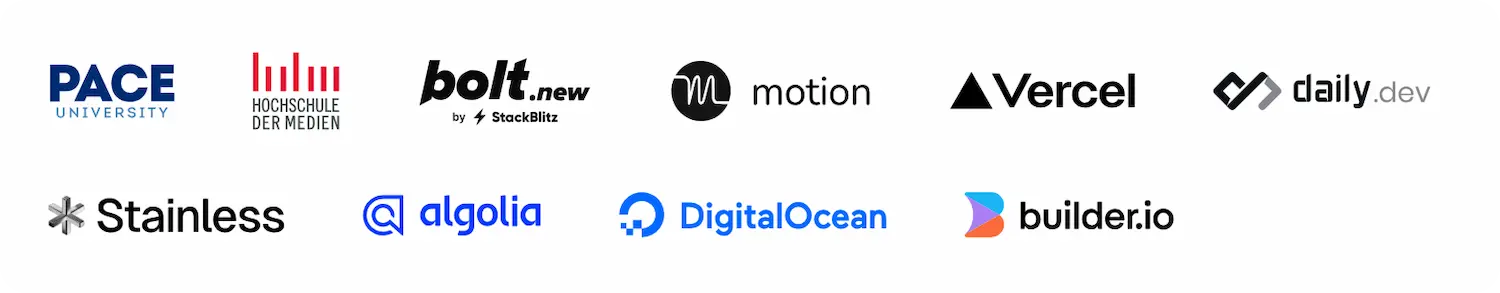
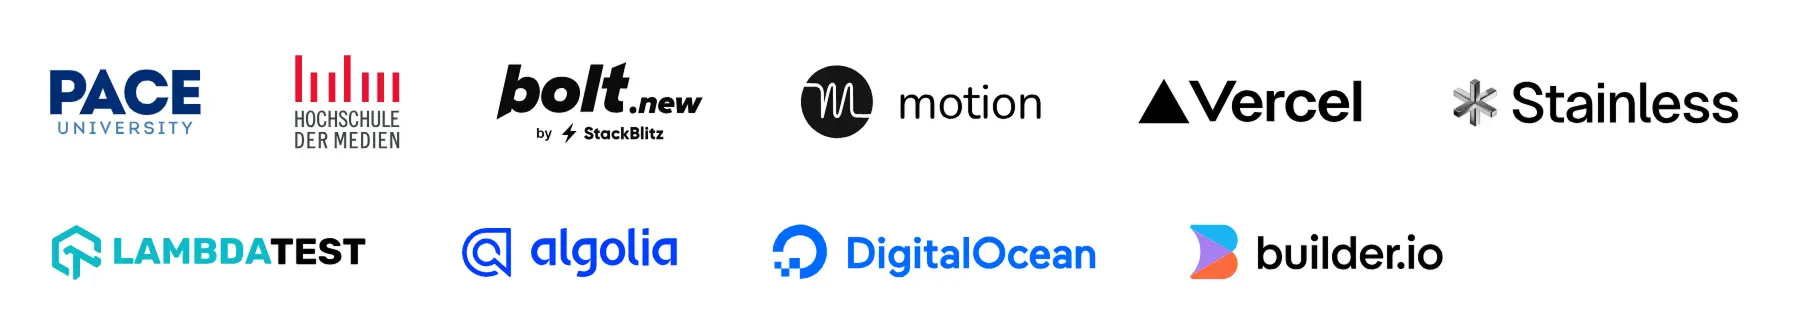
Add LambdaTest to Credits component and remove daily.dev

diff --git a/website/src/logos/LambdaTestLogo.tsx b/website/src/logos/LambdaTestLogo.tsx
@@ -1,0 +1,19 @@
+import { component$, type PropsOf } from '@qwik.dev/core';
+
+export const LambdaTestLogo = component$<PropsOf<'svg'>>((props) => (
+  <svg viewBox="0 0 196 64" role="img" aria-label="LambdaTest logo" {...props}>
+    <path
+      fill="#0ebac5"
+      fill-rule="evenodd"
+      d="M13.37 45.73V42.8a.8.8 0 0 0-.32-.63l-.09-.12-.1-.1c-.34-.19-.41-.23-.45-.24l-5.23-3V26.55l5.01-2.86.37-.21.08-.05 5.21-2.98 5.02 2.87.43.24 5.23 2.99v3.98c0 .28.15.54.4.68l2.57 1.47a.8.8 0 0 0 1.2-.69v-6.62a2 2 0 0 0-1.04-1.8l-.33-.19-6.05-3.45-.33-.19-5.96-3.4a2.1 2.1 0 0 0-2.18-.06l-.33.2-5.73 3.27-.24.13-.09.05-.32.19-5.98 3.41c-.3.15-.6.41-.8.74q-.31.5-.32 1.09V39.9a2 2 0 0 0 1.05 1.8l.32.18 6.06 3.46.33.18 1.38.87a.8.8 0 0 0 1.23-.67M29.73 34.6a.8.8 0 0 0-1.2.7v.73l-13.28-7.57-.45-.26c-.4-.23-.9-.2-1.28.06l-.35.2-1.96 1.11-.72.41-.07.04a1.17 1.17 0 0 0-.42 1.62l.45.76.46.78a1.2 1.2 0 0 0 1.64.4l.84-.48.82-.46 1.6.92v14.26a1.2 1.2 0 0 0 1.99.86l1.76-1.4v-.01c.31-.25.47-.62.44-1.01v-10.3l9.55 5.46c.6.34 1.26.11 1.72-.46l1.2-1.22a.8.8 0 0 0 .24-.56v-2.42a.8.8 0 0 0-.4-.68zm11.55 4.66a.6.6 0 0 1-.4-.17.5.5 0 0 1-.17-.38V24.26q0-.25.17-.4t.4-.16h3.16q.25 0 .41.16t.16.4v11.51h6.78a.57.57 0 0 1 .59.58v2.36q0 .24-.17.4a.6.6 0 0 1-.42.15zm12.11 0a.5.5 0 0 1-.33-.14.4.4 0 0 1-.14-.33q0-.12.02-.2l5.26-14.24q.24-.65.9-.65h3.53q.69 0 .9.65l5.27 14.24q.03.08.03.2 0 .18-.15.33-.14.14-.33.14h-2.94a.8.8 0 0 1-.76-.49l-.82-2.15h-5.92l-.81 2.15a.8.8 0 0 1-.77.5zm5.47-5.98h4.02l-2-5.66zm12.27 5.98a.6.6 0 0 1-.42-.15.5.5 0 0 1-.17-.4V24.28q0-.25.17-.4a.6.6 0 0 1 .42-.18h2.56q.56 0 .8.5l3.9 6.84 3.9-6.85a.9.9 0 0 1 .82-.49h2.55a.57.57 0 0 1 .59.58v14.43q0 .24-.17.4a.6.6 0 0 1-.42.15H82.8a.6.6 0 0 1-.4-.17.5.5 0 0 1-.16-.38v-8.1l-2.44 4.4q-.3.52-.8.52h-1.21q-.45 0-.8-.51l-2.41-4.4v8.09q0 .24-.17.4a.6.6 0 0 1-.42.15zm18.76 0a.6.6 0 0 1-.4-.17.5.5 0 0 1-.17-.38V24.28q0-.25.16-.4.16-.18.4-.18h7q2.86 0 4.26 1.16t1.4 3.29q0 1.07-.57 1.84-.58.78-1.28 1.14.93.39 1.56 1.32.63.91.63 2.08 0 2.25-1.5 3.49t-4.3 1.24zm6.5-9.4q.84 0 1.3-.44.45-.45.45-1.16 0-.69-.44-1.12-.45-.45-1.3-.44h-2.83v3.16zm.21 6.4q.88 0 1.37-.5.48-.5.48-1.23 0-.76-.5-1.26-.49-.5-1.35-.5h-3.03v3.5zm9.27 3a.6.6 0 0 1-.4-.17.5.5 0 0 1-.17-.38V24.28q0-.25.16-.4.15-.18.4-.18h5.95q3.34 0 5.2 1.57 1.85 1.58 1.94 4.5a52 52 0 0 1 0 3.4q-.23 6.1-7.03 6.1zm5.94-3.33q1.43 0 2.1-.67t.72-2.13a24 24 0 0 0 0-3.31q-.04-1.42-.77-2.1-.74-.68-2.16-.68h-2.15v8.89zm8.86 3.33a.5.5 0 0 1-.33-.14.4.4 0 0 1-.15-.33q0-.12.03-.2l5.26-14.24q.22-.65.9-.65h3.53q.68 0 .9.65l5.27 14.24q.03.08.02.2 0 .18-.14.33-.15.14-.33.14h-2.94a.8.8 0 0 1-.77-.49l-.81-2.15h-5.92l-.82 2.15a.8.8 0 0 1-.76.5zm5.47-5.98h4.02l-2.01-5.66z"
+      clip-rule="evenodd"
+    />
+    <path
+      class="text-black dark:text-white"
+      fill="currentColor"
+      fill-rule="evenodd"
+      d="M140.8 39.48a.6.6 0 0 1-.42-.15.5.5 0 0 1-.17-.4V27.55h-3.98a.6.6 0 0 1-.42-.16.5.5 0 0 1-.17-.4V24.5q0-.25.17-.4a.6.6 0 0 1 .42-.17h12.27a.57.57 0 0 1 .59.57V27q0 .24-.17.4a.6.6 0 0 1-.42.15h-3.97v11.38q0 .24-.17.4a.6.6 0 0 1-.42.15zm10.84 0a.6.6 0 0 1-.4-.16.5.5 0 0 1-.16-.4V24.5q0-.25.16-.4.16-.18.4-.17h10.67a.57.57 0 0 1 .59.57v2.2q0 .25-.17.4a.6.6 0 0 1-.42.16h-7.14v2.82h6.64a.57.57 0 0 1 .59.58v2.02q0 .25-.17.41a.6.6 0 0 1-.42.17h-6.64v2.89h7.32a.57.57 0 0 1 .59.58v2.2q0 .24-.17.4a.6.6 0 0 1-.42.15zm19.94.23q-2.2 0-3.73-.63a5.4 5.4 0 0 1-2.33-1.64 4 4 0 0 1-.84-2.22q0-.2.15-.34a.5.5 0 0 1 .35-.13h3q.28 0 .45.09t.37.3q.3.55.91.89.63.34 1.66.34a4 4 0 0 0 1.88-.36q.66-.37.66-1.02a1 1 0 0 0-.34-.76q-.34-.3-1.09-.54a24 24 0 0 0-2.14-.52 9.4 9.4 0 0 1-4.1-1.62 3.8 3.8 0 0 1-1.35-3.11q0-1.38.78-2.46a5 5 0 0 1 2.21-1.68 9 9 0 0 1 3.34-.6q1.98 0 3.44.68a6 6 0 0 1 2.24 1.7q.78 1 .83 1.98 0 .2-.14.34t-.34.15h-3.16a.9.9 0 0 1-.77-.4q-.15-.47-.7-.79a3 3 0 0 0-1.4-.32q-.95 0-1.47.33t-.52.98.68 1.01 2.53.74q2.12.39 3.38.95 1.25.57 1.85 1.47t.6 2.27q0 1.52-.88 2.63-.89 1.1-2.44 1.7-1.56.59-3.58.59m13.13-.23a.6.6 0 0 1-.42-.15.5.5 0 0 1-.17-.4V27.55h-3.98a.6.6 0 0 1-.42-.16.5.5 0 0 1-.17-.4V24.5q0-.25.17-.4a.6.6 0 0 1 .42-.17h12.27a.57.57 0 0 1 .59.57V27q0 .24-.17.4a.6.6 0 0 1-.42.15h-3.97v11.38q0 .24-.18.4a.6.6 0 0 1-.41.15z"
+      clip-rule="evenodd"
+    />
+  </svg>
+));

diff --git a/website/src/components/Credits.tsx b/website/src/components/Credits.tsx
@@ -4,9 +4,9 @@ import {
   AlgoliaLogo,
   BoltLogo,
   BuilderLogo,
-  DailyDevLogo,
   DigitalOceanLogo,
   HdmLogo,
+  LambdaTestLogo,
   MotionLogo,
   PaceLogo,
   StainlessLogo,
@@ -65,8 +65,8 @@ export const Credits = component$(() => {
           { Logo: BoltLogo, href: 'https://bolt.new/' },
           { Logo: MotionLogo, href: 'https://www.usemotion.com/' },
           { Logo: VercelLogo, href: 'https://vercel.com' },
-          { Logo: DailyDevLogo, href: 'https://daily.dev/' },
           { Logo: StainlessLogo, href: 'https://www.stainless.com/' },
+          { Logo: LambdaTestLogo, href: 'https://www.lambdatest.com/' },
           { Logo: AlgoliaLogo, href: 'https://www.algolia.com' },
           { Logo: DigitalOceanLogo, href: 'https://www.digitalocean.com/' },
           { Logo: BuilderLogo, href: 'https://www.builder.io' },

diff --git a/website/src/logos/index.ts b/website/src/logos/index.ts
@@ -4,6 +4,7 @@ export * from './BuilderLogo';
 export * from './DailyDevLogo';
 export * from './DigitalOceanLogo';
 export * from './HdmLogo';
+export * from './LambdaTestLogo';
 export * from './MotionLogo';
 export * from './NetlifyLogo';
 export * from './PreactLogo';
